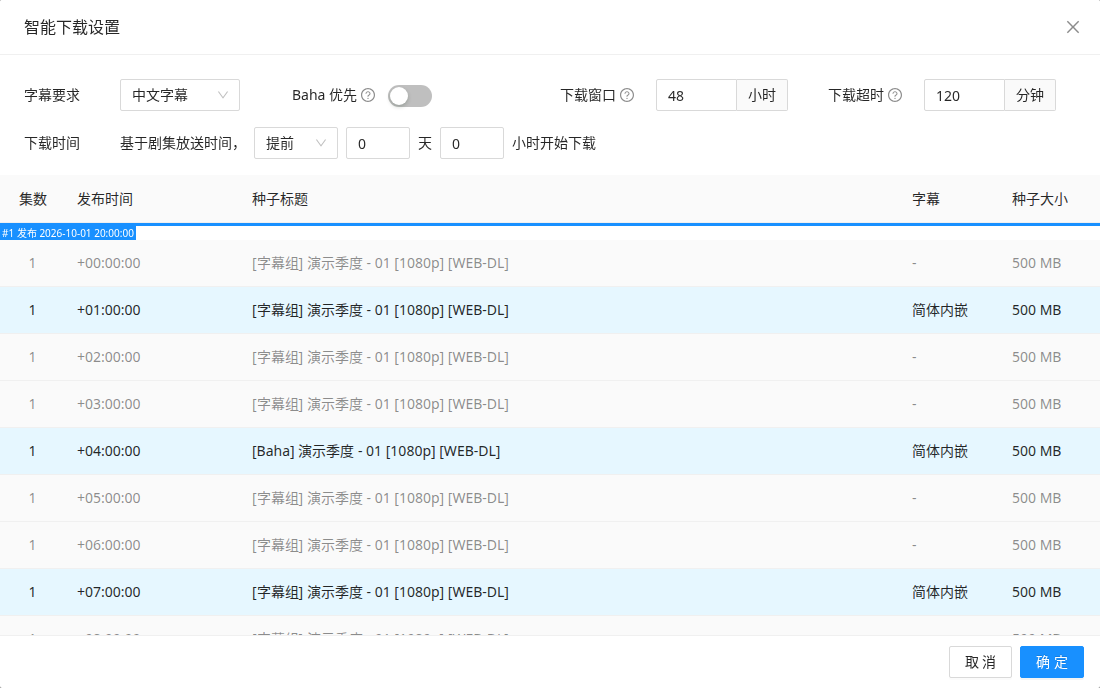
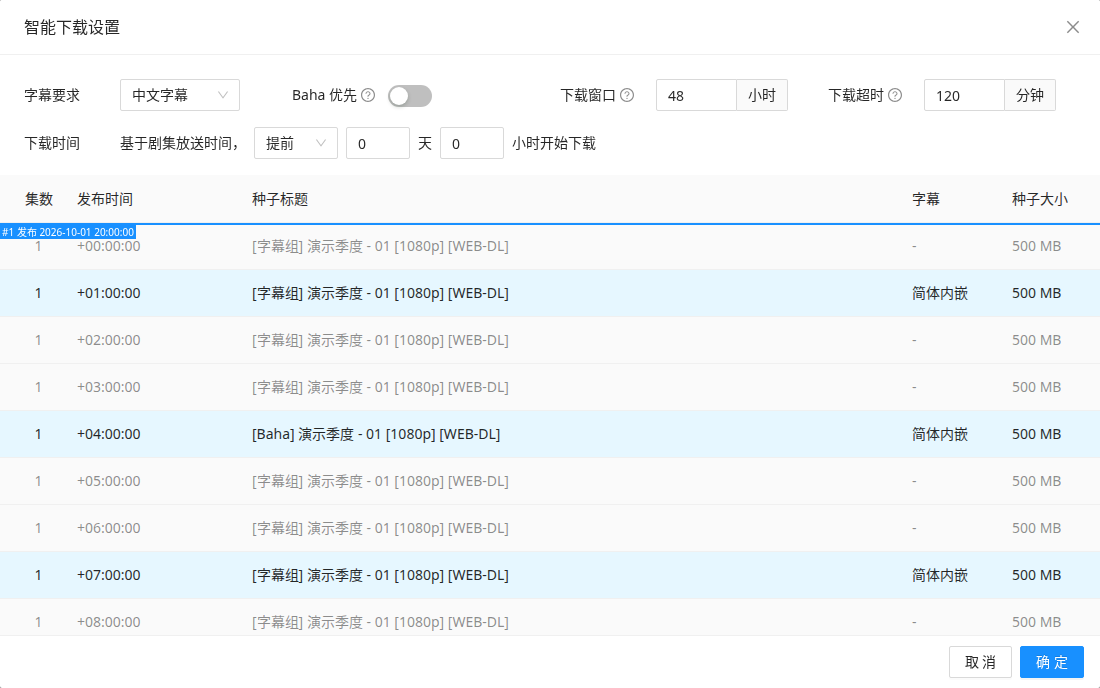
fix(admin): 将剧集发布角标改为零高度覆盖层

diff --git a/apps/admin/src/pages/season/parts/smart-download/index.module.less b/apps/admin/src/pages/season/parts/smart-download/index.module.less
@@ -100,7 +100,7 @@
   table-layout: fixed;
   tbody {
     // 每集限制自己的吸顶范围，进入下一集后旧角标退出，不用整行底色遮盖。
-    clip-path: inset(0);
+    clip-path: inset(-1px 0 0);
   }
   th,
   td {
@@ -120,7 +120,8 @@
     width: 65px;
   }
   th:first-child,
-  td:first-child {
+  .torrentRow > td:first-child:not([colspan]) {
+    padding-left: 24px;
     text-align: center;
   }
   th:nth-child(4) {
@@ -192,14 +193,21 @@
   position: sticky;
   top: @previewHeaderHeight;
   z-index: 1;
-  height: 17px;
+  height: 0;
   padding: 0;
-  border-top: 3px solid var(--lani-primary);
-  border-bottom: 0;
-  line-height: 14px;
+  border: 0;
+  line-height: 0;
+  vertical-align: top;
   text-align: left;
   background: transparent;
   pointer-events: none;
+}
+.releaseMarker {
+  // 负外边距抵消全部高度，向上覆盖 1px 分隔线，其余覆盖下方种子行。
+  height: 17px;
+  margin: -1px 0 -16px;
+  border-top: 3px solid var(--lani-primary);
+  line-height: 14px;
 }
 .releaseLabel {
   display: inline-block;

diff --git a/apps/admin/src/pages/season/parts/smart-download/index.tsx b/apps/admin/src/pages/season/parts/smart-download/index.tsx
@@ -408,9 +408,11 @@ export function SettingsDialog({
                           data-release-ids={row.release?.episodeIds.join(',')}
                         >
                           <td colSpan={5}>
-                            <span className={styles.releaseLabel}>
-                              {release}
-                            </span>
+                            <div className={styles.releaseMarker}>
+                              <span className={styles.releaseLabel}>
+                                {release}
+                              </span>
+                            </div>
                           </td>
                         </tr>
                       )}

diff --git a/docs/docs/usage/smart-download.md b/docs/docs/usage/smart-download.md
@@ -26,7 +26,7 @@ sidebar_position: 2
 
 预览按种子发布时间从早到晚展示。进入弹窗时从首集开始下载时间之前的 10 条种子开始，并将首集分界线定位到列表顶部下方约 48px；滚动到底部每次展开 30 行，lani 在后台按 90 条读取，补齐下一次剧集发布边界。尚未取完整的尾部区间暂时置灰。
 
-蓝线位于每集开始下载时间之后首条种子的上边缘，左上角显示集数及偏移后的完整发布时间，滚动时固定在表头下方，进入下一集区间后切换，角标右侧保持透明。第二列显示种子相对最近一次剧集发布的时间差，例如 `+12:34:56`，悬停可查看完整日期时间；早于所有剧集发布的种子显示完整日期时间。区间内没有资源时以灰色行显示「无匹配种子」。仍符合当前规则的候选种子显示浅蓝色背景，悬停时保持原背景；不符合规则的种子置灰，悬停 75 毫秒后，标题单元格左对齐显示「无法下载原因：」及排除原因，移开立即恢复标题；键盘聚焦直接显示原因，最多两行并保持行高，其他字段和角标仍然可见。
+蓝线位于每集开始下载时间之后首条种子的上边缘，左上角显示集数及偏移后的完整发布时间，蓝线和角标覆盖在种子行上，不额外占用行高；滚动时固定在表头下方，进入下一集区间后切换，角标右侧保持透明。第二列显示种子相对最近一次剧集发布的时间差，例如 `+12:34:56`，悬停可查看完整日期时间；早于所有剧集发布的种子显示完整日期时间。区间内没有资源时以灰色行显示「无匹配种子」。仍符合当前规则的候选种子显示浅蓝色背景，悬停时保持原背景；不符合规则的种子置灰，悬停 75 毫秒后，标题单元格左对齐显示「无法下载原因：」及排除原因，移开立即恢复标题；键盘聚焦直接显示原因，最多两行并保持行高，其他字段和角标仍然可见。
 
 调整下载时间时，列表会跟随当前视口顶部附近的同一集分界线。若提前到已加载范围之前，会暂时锁定列表滚动，等连续调整结束、种子补齐后恢复位置。天数和小时都可以输入负数，回车或失焦后会合并为总偏移；增减按钮立即生效。例如「提前 0 天 1 小时」将天数减一后，自动变为「延后 0 天 23 小时」。
 
